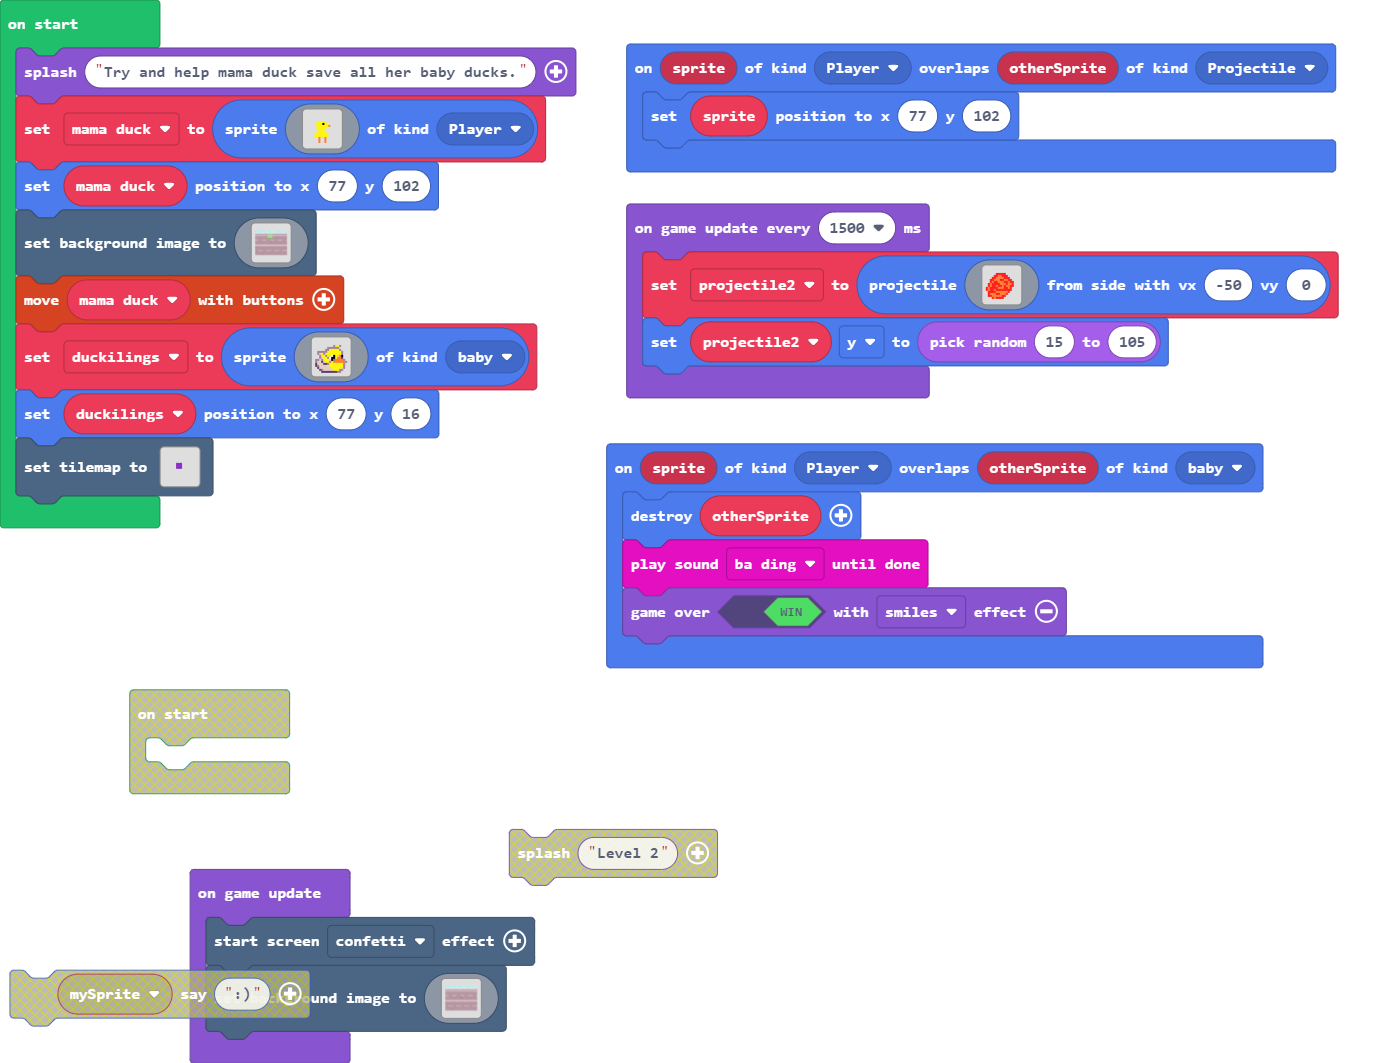
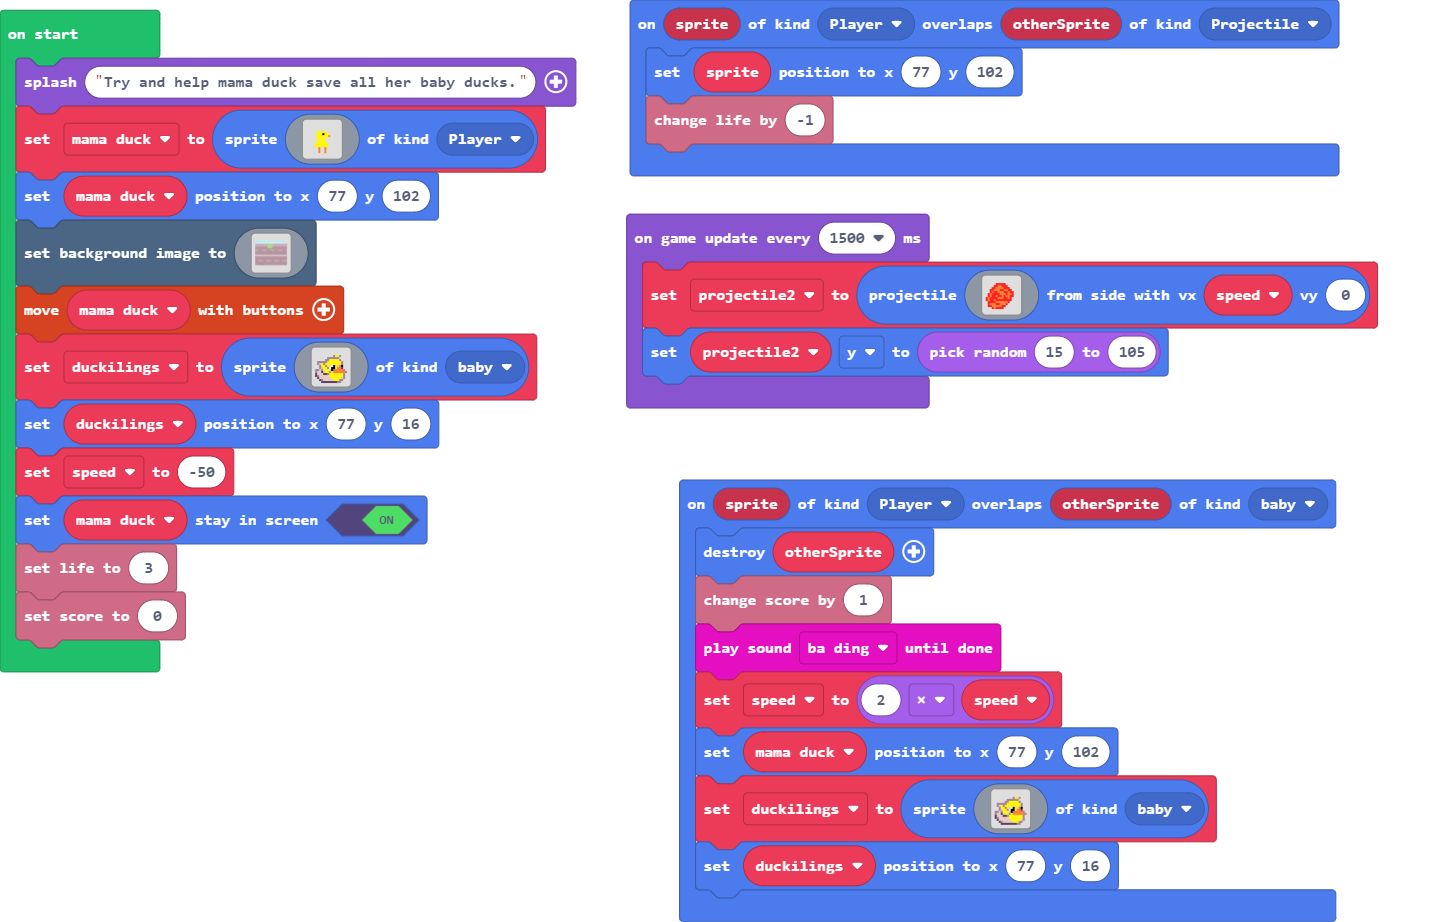
Update pxt.json, main.blocks, main.ts

diff --git a/main.ts b/main.ts
@@ -3,15 +3,40 @@ namespace SpriteKind {
 }
 sprites.onOverlap(SpriteKind.Player, SpriteKind.Projectile, function (sprite, otherSprite) {
     sprite.setPosition(77, 102)
+    info.changeLifeBy(-1)
 })
 sprites.onOverlap(SpriteKind.Player, SpriteKind.baby, function (sprite, otherSprite) {
     otherSprite.destroy()
+    info.changeScoreBy(1)
     music.baDing.playUntilDone()
-    game.over(true, effects.smiles)
+    speed = 2 * speed
+    mama_duck.setPosition(77, 102)
+    duckilings = sprites.create(img`
+        . . . . . . . . . . . . . . . . 
+        . . . . . . . . . . . . . . . . 
+        . . . . . . . . . b 5 5 b . . . 
+        . . . . . . b b b b b b . . . . 
+        . . . . . b b 5 5 5 5 5 b . . . 
+        . b b b b b 5 5 5 5 5 5 5 b . . 
+        . b d 5 b 5 5 5 5 5 5 5 5 b . . 
+        . . b 5 5 b 5 d 1 f 5 d 4 f . . 
+        . . b d 5 5 b 1 f f 5 4 4 c . . 
+        b b d b 5 5 5 d f b 4 4 4 4 b . 
+        b d d c d 5 5 b 5 4 4 4 4 4 4 b 
+        c d d d c c b 5 5 5 5 5 5 5 b . 
+        c b d d d d d 5 5 5 5 5 5 5 b . 
+        . c d d d d d d 5 5 5 5 5 d b . 
+        . . c b d d d d d 5 5 5 b b . . 
+        . . . c c c c c c c c b b . . . 
+        `, SpriteKind.baby)
+    duckilings.setPosition(77, 16)
 })
 let projectile2: Sprite = null
+let speed = 0
+let duckilings: Sprite = null
+let mama_duck: Sprite = null
 game.splash("Try and help mama duck save all her baby ducks.")
-let mama_duck = sprites.create(img`
+mama_duck = sprites.create(img`
     . . . . . . . . . . . . . . . . 
     . . . . . . . . . . . . . . . . 
     . . . . . . . . . . . . . . . . 
@@ -153,7 +178,7 @@ scene.setBackgroundImage(img`
     bbbbbbbbbbbbbbbbbbbbbbbbbbbbbbbbbbbbbbbbbbbbbbbbbbbbbbbbbbbbbbbbbbbbbbbbbbbbbbbbbbbbbbbbbbbbbbbbbbbbbbbbbbbbbbbbbbbbbbbbbbbbbbbbbbbbbbbbbbbbbbbbbbbbbbbbbbbbbbbb
     `)
 controller.moveSprite(mama_duck)
-let duckilings = sprites.create(img`
+duckilings = sprites.create(img`
     . . . . . . . . . . . . . . . . 
     . . . . . . . . . . . . . . . . 
     . . . . . . . . . b 5 5 b . . . 
@@ -172,133 +197,11 @@ let duckilings = sprites.create(img`
     . . . c c c c c c c c b b . . . 
     `, SpriteKind.baby)
 duckilings.setPosition(77, 16)
-tiles.setTilemap(tilemap`level2`)
-game.onUpdate(function () {
-    effects.confetti.startScreenEffect()
-    scene.setBackgroundImage(img`
-        9999999999999999999999999999999999999999999999999999999999999999999999999999999999999999999999999999999999999999999999999999999999999999999999999999999999999999
-        9999999999999999999999999999999999999999999999999999111111111119999999999999999999999999999999999999991111999999999999999999999999999999999999999999111111111111
[12 lines of base64/hex data omitted]
-        cccccccccccccccccccccccccccccccccccccccccccccccccccccccccccccccccccccccccccccccccccccccccccccccccccccccccccccccccccccccccccccccccccccccccccccccccccccccccccccccc
-        1111111111111111111111111111111111111111111111111111111111111111111111111111111111111111111111111111111111111111111111111111111111111111111111111111111111111111
[3 lines of base64/hex data omitted]
-        bbbbbbbbbbbbbbbbbbbbbbbbbbbbbbbbbbbbbbbbbbbbbbbbbbbbbbbbbbbbbbbbbbbbbbbbbbbbbbbbbbbbbbbbbbbbbbbbbbbbbbbbbbbbbbbbbbbbbbbbbbbbbbbbbbbbbbbbbbbbbbbbbbbbbbbbbbbbbbbb
-        bbbbbbbbbbbbbbbbbbbbbbbbbbbbbbbbbbbbbbbbbbbbbbbbbbbbbbbbbbbbbbbbbbbbbbbbbbbbbbbbbbbbbbbbbbbbbbbbbbbbbbbbbbbbbbbbbbbbbbbbbbbbbbbbbbbbbbbbbbbbbbbbbbbbbbbbbbbbbbbb
-        bbbbbbbbbbbbbbbbbbbbbbbbbbbbbbbbbbbbbbbbbbbbbbbbbbbbbbbbbbbbbbbbbbbbbbbbbbbbbbbbbbbbbbbbbbbbbbbbbbbbbbbbbbbbbbbbbbbbbbbbbbbbbbbbbbbbbbbbbbbbbbbbbbbbbbbbbbbbbbbb
-        bbbbbbbbbbbbbbbbbbbbbbbbbbbbbbbbbbbbbbbbbbbbbbbbbbbbbbbbbbbbbbbbbbbbbbbbbbbbbbbbbbbbbbbbbbbbbbbbbbbbbbbbbbbbbbbbbbbbbbbbbbbbbbbbbbbbbbbbbbbbbbbbbbbbbbbbbbbbbbbb
[2 lines of base64/hex data omitted]
-        bbbbbbbbbbbbbbbbbbbbbbbbbbbbbbbbbbbbbbbbbbbbbbbbbbbbbbbbbbbbbbbbbbbbbbbbbbbbbbbbbbbbbbbbbbbbbbbbbbbbbbbbbbbbbbbbbbbbbbbbbbbbbbbbbbbbbbbbbbbbbbbbbbbbbbbbbbbbbbbb
-        bbbbbbbbbbbbbbbbbbbbbbbbbbbbbbbbbbbbbbbbbbbbbbbbbbbbbbbbbbbbbbbbbbbbbbbbbbbbbbbbbbbbbbbbbbbbbbbbbbbbbbbbbbbbbbbbbbbbbbbbbbbbbbbbbbbbbbbbbbbbbbbbbbbbbbbbbbbbbbbb
-        bbbbbbbbbbbbbbbbbbbbbbbbbbbbbbbbbbbbbbbbbbbbbbbbbbbbbbbbbbbbbbbbbbbbbbbbbbbbbbbbbbbbbbbbbbbbbbbbbbbbbbbbbbbbbbccccbbbbbbbbbbbbbbbbbbbbbbbbbbbbbbbbbbbbbbbbbbbbbb
-        bbbbbbbbbbbbbccccbbbbbbbbbbbbbbbbbbbbbbbbbbbbbbbbbbbbbbbbbbbbbbbbbbbbbbbbbbbbbbbbbbbbbbbbbbbbbbbbbbbbbbccccbccbbbbbbbbbbbbbbbbbbbbbbbbbbbbbbbbbbbbbbbbbbbbbbbbbb
-        bbbbbbbbbbbbcbddbcbbbbbbbbbbbbbbbbbbbbbbbbbbbbbbbbbbbbbbbbbbbbbbbbbbbbbbbbbbbbbbbbbbbbbbbbbbbbbbbbbbbbbbbbbccbbbbbbbbbbbbbbbbbbbbbbbbbbbbbbbbbbbbbbbbbbbbbbbbbbb
-        bbbbbbbbbbbbbbbbbbbbbbbbbbbbbbbbbbbbbbbbbbbbbbbbbbbbbbbbbbbbbbbbbbbbbbbbbbbbbbbbbbbbbbbbbbbbbbbbbbbbbbbbbbbbbcbbbbbbbbbbbbbbbbbbbbbbbbbbbbbbbbbbbbbbbbbbbbbbbbbb
-        bbbbbbbbbbbbbbbbbbbbbbbbbbbbbbbbbbbbbbbbbbbbbbbbbbbbbbbbbbbbbbbbbbbbbbbbbbbbbbbbbbbbbbbbbbbbbbbbbbbbbbbbbbbbbbbbbbbbbbbbbbbbbbbbbbbbbbbbbbbbbbbbbbbbbbbbbbbbbbbb
-        bbbbbbbbbbbbbbbbbbbbbbbbbbbbbbbbbbbbbbbbbbbbbbbbbbbbbbbbbbbbbbbbbbbbbbbbbbbbbbbbbbbbbbbbbbbbbbbbbbbbbbbbbbbbbbbbbbbbbbbbbbbbbbbbbbbbbbbbbbbbbbbbbbbbbbbbbbbbbbbb
-        bbbbbbbbbbbbbbbbbbbbbbbbbbbbbbbbbbbbbbbbbbbbbbbbbbbbbbbbbbbbbbbbbbbbbbbbbbbbbbbbbbbbbbbbbbbbbbbbbbbbbbbbbbbbbbbbbbbbbbbbbbbbbbbbbbbbbbbbbbbbbbbbbbbbbbbbbbbbbbbb
-        bbbbbbbbbbbbbbbbbbbbbbbbbbbbbbbbbbbbbbbbbbbbbbbbbbbbbbbbbbbbbbbbbbbbbbbbbbbbbbbbbbbbbbbbbbbbbbbbbbbbbbbbbbbbbbbbbbbbbbbbbbbbbbbbbbbbbbbbbbbbbbbbbbbbbbbbbbbbbbbb
-        bbbbbbbbbbbbbbbbbbbbbbbbbbbbbbbbbbbbbbbbbbbbbbbbbbbbbbbbbbbbbbbbbbbbbbbbbbbbbbbbbbbbbbbbbbbbbbbbbbbbbbbbbbbbbbbbbbbbbbbbbbbbbbbbbbbbbbbbbbbbbbbbbbbbbbbbbbbbbbbb
-        bbbbbbbbbbbbbbbbbbbbbbbbbbbbbbbbbbbbbbbbbbbbbbbbbbbbbbbbbbbbbbbbbbbbbbbbbbbbbbbbbbbbbbbbbbbbbbbbbbbbbbbbbbbbbbbbbbbbbbbbbbbbbbbbbbbbbbbbbbbbbbbbbbbbbbbbbbbbbbbb
-        bbbbbbbbbbbbbbbbbbbbbbbbbbbbbbbbbbbbbbbbbbbbbbbbbbbbbbbbbbbbbbbbbbbbbbbbbbbbbbbbbbbbbbbbbbbbbbbbbbbbbbbbbbbbbbbbbbbbbbbbbbbbbbbbbbbbbbbbbbbbbbbbbbbbbbbbbbbbbbbb
-        bbbbbbbbbbbbbbbbbbbbbbbbbbbbbbbbbbbbbbbbbbbbbbbbbbbbbbbbbbbbbbbbbbbbbbbbbbbbbbbbbbbbbbbbbbbbbbbbbbbbbbbbbbbbbbbbbbbbbbbbbbbbbbbbbbbbbbbbbbbbbbbbbbbbbbbbbbbbbbbb
-        bbbbbbbbbbbbbbbbbbbbbbbbbbbbbbbbbbbbbbbbbbbbbbbbbbbbbbbbbbbbbbbbbbbbbbbbbbbbbbbbbbbbbbbbbbbbbbbbbbbbbbbbbbbbbbbbbbbbbbbbbbbbbbbbbbbbbbbbbbbbbbbbbbbbbbbbbbbbbbbb
-        bbbbbbbbbbbbbbbbbbbbbbbbbbbbbbbbbbbbbbbbbbbbbbbbbbbbbbbbbbbbbbbbbbbbbbbbbbbbbbbbbbbbbbbbbbbbbbbbbbbbbbbbbbbbbbbbbbbbbbbbbbbbbbbbbbbbbbbbbbbbbbbbbbbbbbbbbbbbbbbb
-        bbbbbbbbbbbbbbbbbbbbbbbbbbbbbbbbbbbbbbbbbbbbbbbbbbbbbbbbbbbbbbbbbbbbbbbbbbbbbbbbbbbbbbbbbbbbbbbbbbbbbbbbbbbbbbbbbbbbbbbbbbbbbbbbbbbbbbbbbbbbbbbbbbbbbbbbbbbbbbbb
-        bbbbbbbbbbbbbbbbbbbbbbbbbbbbbbbbbbbbbbbbbbbbbbbbbbbbbbbbbbbbbbbbbbbbbbbbbbbbbbbbbbbbbbbbbbbbbbbbbbbbbbbbbbbbbbbbbbbbbbbbbbbbbbbbbbbbbbbbbbbbbbbbbbbbbbbbbbbbbbbb
-        bbbbbbbbbbbbbbbbbbbbbbbbbbbbbbbbbbbbbbbbbbbbbbbbbbbbbbbbbbbbbbbbbbbbbbbbbbbbbbbbbbbbbbbbbbbbbbbbbbbbbbbbbbbbbbbbbbbbbbbbbbbbbbbbbbbbbbbbbbbbbbbbbbbbbbbbbbbbbbbb
-        bbbbbbbbbbbbbbbbbbbbbbbbbbbbbbbbbbbbbbbbbbbbbbbbbbbbbbbbbbbbbbbbbbbbbbbbbbbbbbbbbbbbbbbbbbbbbbbbbbbbbbbbbbbbbbbbbbbbbbbbbbbbbbbbbbbbbbbbbbbbbbbbbbbbbbbbbbbbbbbb
[2 lines of base64/hex data omitted]
-        bbbbbbbbbbbbbbbbbbbbbbbbbbbbbbbbbbbbbbbbbbbbbbbbbbbbbbbbbbbbbbbbbbbbbbbbbbbbbbbbbbbbbbbbbbbbbbbbbbbbbbbbbbbbbbbbbbbbbbbbbbbbbbbbbbbbbbbbbbbbbbbbbbbbbbbbbbbbbbbb
-        bbbbbbbbbbbbbbbbbbbbbbbbbbbbbbbbbbbbbbbbbbbbbbbbbbbbbbbbbbbbbbbbbbbbbbbbbbbbbbbbbbbbbbbbbbbbbbbbbbbbbbbbbbbbbbbbbbbbbbbbbbbbbbbbbbbbbbbbbbbbbbbbbbbbbbbbbbbbbbbb
-        bbbbbbbbbbbbbbbbbbbbbbbbbbbbbbbbbbbbbbbbbbbbbbbbbbbbbbbbbbbbbbbbbbbbbbbbbbbbbbbbbbbbbbbbbbbbbbbbbbbbbbbbbbbbbbbbbbbbbbbbbbbbbbbbbbbbbbbbbbbbbbbbbbbbbbbbbbbbbbbb
-        bbbbbbbbbbbbbbbbbbbbbbbbbbbbbbbbbbbbbbbbbbbbbbbbbbbbbbbbbbbbbbbbbbbbbbbbbbbbbbbbbbbbbbbbbbbbbbbbbbbbbbbbbbbbbbbbbbbbbbbbbbbbbbbbbbbbbbbbbbbbbbbbbbbbbbbbbbbbbbbb
-        bbbbbbbbbbbbbbbbbbbbbbbbbbbbbbbbbbbbbbbbbbbbbbbbbbbbbbbbbbbbbbbbbbbbbbbbbbbbbbbbbbbbbbbbbbbbbbbbbbbbbbbbbbbbbbbbbbbbbbbbbbbbbbbbbbbbbbbbbbbbbbbbbbbbbbbbbbbbbbbb
-        bbbbbbbbbbbbbbbbbbbbbbbbbbbbbbbbbbbbbbbbbbbbbbbbbbbbbbbbbbbbbbbbbbbbbbbbbbbbbbbbbbbcbbbbbbbbbbbbbbbbbbbbbbbbbbbbbbbbbbbbbbbbbbbbbbbbbbbbbbbbbbbbbbbbbbbbbbbbbbbb
-        bbbbbbbbbbbbbbbbbbbbbbbbbbbbbbbbbbbbbbbbbbbbbbbbbbbbbbbbbbbbbbbbbbbbbbbbbcccbbbccccbbbbbbbbbbbbbbbbbbbbbbbbbbbbbbbbbbbbbbbbbbbbbbbbbbbbbbbbbbbbbbbbbbbbbbbbbbbbb
-        bbbbbbbbbbbbbbbbbbbbbbbbbbbbbbbbbbbbbbbbbbbbbbbbbbbbbbbbbbbbbbbbbbbbbbbbcbbcbbcbcbbbbbbbbbbbbbbbbbbbbbbbbbbbbbbbbbbbbbbbbbbbbbbbbbbbbbbbbbbbbbbbbbbbbbbbbbbbbbbb
-        bbbbbbbbbbbbbbbbbbbbbbbbbbbbbbbbbbbbbbbbbbbbbbbbbbbbbbbbbbbbbbbbbbbbbbbbbbbbccbcbbbbbbbbbbbbbbbbbbbbbbbbbbbbbbbbbbbbbbbbbbbbbbbbbbbbbbbbbbbbbbbbbbbbbbbbbbbbbbbb
-        bbbbbbbbbbbbbbbbbbbbbbbbbbbbbbbbbbbbbbbbbbbbbbbbbbbbbbbbbbbbbbbbbbbbbbbbbbbbbcccccbbbbbbbbbbbbbbbbbbbbbbbbbbbbbbbbbbbbbbbbbbbbbbbbbbbbbbbbbbbbbbbbbbbbbbbbbbbbbb
-        bbbbbbbbbbbbbbbbbbbbbbbbbbbbbbbbbbbbbbbbbbbbbbbbbbbbbbbbbbbbbbbbbbbbbbbbbbbbbbbbbbcbbbbbbbbbbbbbbbbbbbbbbbbbbbbbbbbbbbbbbbbbbbbbbbbbbbbbbbbbbbbbbbbbbbbbbbbbbbbb
-        bbbbbbbbbbbbbbbbbbbbbbbbbbbbbbbbbbbbbbbbbbbbbbbbbbbbbbbbbbbbbbbbbbbbbbbbbbbbbbbbbbbbbbbbbbbbbbbbbbbbbbccccbbbbbbbbbbbbbbbbbbbbbbbbbbbbbbbbbbbbbbbbbbbbbbbbbbbbbb
-        bbbbbbbbbbbbbbbbbbbbbbbbbbbbbbbbbbbbbbbbbbbbbbbbbbbbbbbbbbbbbbbbbbbbbbbbbbbbbbbbbbbbbbbbbbbbbbbbbbbbbcbddbcbbbbbbbbbbbbbbbbbbbbbbbbbbbbbbbbbbbbbbbbbbbbbbbbbbbbb
-        bbbbbbbbbbbbbbbbbbbbbbbbbbbbbbbbbbbbbbbbbbbbbbbbbbbbbbbbbbbbbbbbbbbbbbbbbbbbbbbbbbbbbbbbbbbbbbbbbbbbbbbbbbbbbbbbbbbbbbbbbbbbbbbbbbbbbbbbbbbbbbbbbbbbbbbbbbbbbbbb
-        bbbbbbbbbbbbbbbbbbbbbbbbbbbbbbbbbbbbbbbbbbbbbbbbbbbbbbbbbbbbbbbbbbbbbbbbbbbbbbbbbbbbbbbbbbbbbbbbbbbbbbbbbbbbbbbbbbbbbbbbbbbbbbbbbbbbbbbbbbbbbbbbbbbbbbbbbbbbbbbb
-        bbbbbbbbbbbbbbbbbbbbbbbbbbbbbbbbbbbbbbbbbbbbbbbbbbbbbbbbbbbbbbbbbbbbbbbbbbbbbbbbbbbbbbbbbbbbbbbbbbbbbbbbbbbbbbbbbbbbbbbbbbbbbbbbbbbbbbbbbbbbbbbbbbbbbbbbbbbbbbbb
-        bbbbbbbbbbbbbbbbbbbbbbbbbbbbbbbbbbbbbbbbbbbbbbbbbbbbbbbbbbbbbbbbbbbbbbbbbbbbbbbbbbbbbbbbbbbbbbbbbbbbbbbbbbbbbbbbbbbbbbbbbbbbbbbbbbbbbbbbbbbbbbbbbbbbbbbbbbbbbbbb
-        bbbbbbbbbbbbbbbbbbbbbbbbbbbbbbbbbbbbbbbbbbbbbbbbbbbbbbbbbbbbbbbbbbbbbbbbbbbbbbbbbbbbbbbbbbbbbbbbbbbbbbbbbbbbbbbbbbbbbbbbbbbbbbbbbbbbbbbbbbbbbbbbbbbbbbbbbbbbbbbb
-        bbbbbbbbbbbbbbbbbbbbbbbbbbbbbbbbbbbbbbbbbbbbbbbbbbbbbbbbbbbbbbbbbbbbbbbbbbbbbbbbbbbbbbbbbbbbbbbbbbbbbbbbbbbbbbbbbbbbbbbbbbbbbbbbbbbbbbbbbbbbbbbbbbbbbbbbbbbbbbbb
-        bbbbbbbbbbbbbbbbbbbbbbbbbbbbbbbbbbbbbbbbbbbbbbbbbbbbbbbbbbbbbbbbbbbbbbbbbbbbbbbbbbbbbbbbbbbbbbbbbbbbbbbbbbbbbbbbbbbbbbbbbbbbbbbbbbbbbbbbbbbbbbbbbbbbbbbbbbbbbbbb
-        bbbbbbbbbbbbbbbbbbbbbbbbbbbbbbbbbbbbbbbbbbbbbbbbbbbbbbbbbbbbbbbbbbbbbbbbbbbbbbbbbbbbbbbbbbbbbbbbbbbbbbbbbbbbbbbbbbbbbbbbbbbbbbbbbbbbbbbbbbbbbbbbbbbbbbbbbbbbbbbb
-        bbbbbbbbbbbbbbbbbbbbbbbbbbbbbbbbbbbbbbbbbbbbbbbbbbbbbbbbbbbbbbbbbbbbbbbbbbbbbbbbbbbbbbbbbbbbbbbbbbbbbbbbbbbbbbbbbbbbbbbbbbbbbbbbbbbbbbbbbbbbbbbbbbbbbbbbbbbbbbbb
[2 lines of base64/hex data omitted]
-        bbbbbbbbbbbbbbbbbbbbbbbbbbbbbbbbbbbbbbbbbbbbbbbbbbbbbbbbbbbbbbbbbbbbbbbbbbbbbbbbbbbbbbbbbbbbbbbbbbbbbbbbbbbbbbbbbbbbbbbbbbbbbbbbbbbbbbbbbbbbbbbbbbbbbbbbbbbbbbbb
-        bbbbbbbbbbbbbbbbbbbbbbbbbbbbbbbbbbbbbbbbbbbbbbbbbbbbbbbbbbbbbbbbbbbbbbbbbbbbbbbbbbbbbbbbbbbbbbbbbbbbbbbbbbbbbbbbbbbbbbbbbbbbbbbbbbbbbbbbbbbbbbbbbbbbbbbbbbbbbbbb
[2 lines of base64/hex data omitted]
-        bbbbbbbbbbbbbbbbbbbbbbbbbbbbbbbbbbbbbbbbbbbbbbbbbbbbbbbbbbbbbbbbbbbbbbbbbbbbbbbbbbbbbbbbbbbbbbbbbbbbbbbbbbbbbbbbbbbbbbbbbbbbbbbbbbbbbbbbbbbbbbbbbbbbbbbbbbbbbbbb
-        bbbbbbbbbbbbbbbbbbbbbbbbbbbbbbbbbbbbbbbbbbbbbbbbbbbbbbbbbbbbbbbbbbbbbbbbbbbbbbbbbbbbbbbbbbbbbbbbbbbbbbbbbbbbbbbbbbbbbbbbbbbbbbbbbbbbbbbbbbbbbbbbbbbbbbbbbbbbbbbb
-        bbbbbbbbbbbbbbbbbbbbbbbbbbbbbbbbbbbbbbbbbbbbbbbbbbbbbbbbbbbbbbbbbbbbbbbbbbbbbbbbbbbbbbbbbbbbbbbbbbbbbbbbbbbbbbbbbbbbbbbbbbbbbbbbbbbbbbbbbbbbbbbbbbbbbbbbbbbbbbbb
-        bbbbbbbbbbbbbbbbbbbbbbbbbbbbbbbbbbbbbbbbbbbbbbbbbbbbbbbbbbbbbbbbbbbbbbbbbbbbbbbbbbbbbbbbbbbbbbbbbbbbbbbbbbbbbbbbbbbbbbbbbbbbbbbbbbbbbbbbbbbbbbbbbbbbbbbbbbbbbbbb
-        bbbcccbbbbbbbbbbbbbbbbbbbbbbbbbbbbbbbbbbbbbbbbbbbbbbbbbbbbbbbbbbbbbbbbbbbbbbbbbbbbbbbbbbbbbbbbbbbbbbbbbbbbbbbbbbbbbbbbbbbbbbbbbbbbbbbbbbbbbbbbbbbbbbbbbbbbbbbbbb
-        bbccbbcbbbbbbbbbbbbbbbbbbbbbbbbbbbbbbbbbbbbbbbbbbbbbbbbbbbbbbbbbbbbbbbbbbbbbbbbbbbbbbbbbbbbbbbbbbbbbbbbbbbbbbbbbbbbbbbbbbbbbbbbbbbbbbbbbbbbbbbbbbbbbbbbbbbbbbbbb
-        cccbbbbbbbbbbbbbbbbbbbbbbbbbbbbbbbbbbbbbbbbbbbbbbbbbbbbbbbbbbbbbbbbbbbbbbbbbbbbbbbbbbbbbbbbbbbbbbbbbbbbbbbbbbbbbbbbbbbbbbbbbbbbbbbbbbbbbbbbbbbbbbbbbbbbbbbbbbbbc
-        bccbbbbbbbbbbbbbbbbbbbbbbbbbbbbbbbbbbbbbbbbbbbbbbbbbbbbbbbbbbbbbbbbbbbbbbbbbbbbbbbbbbbbbbbbbbbbbbbbbbbbbbbbbbbbbbbbbbbbbbbbbbbbbbbbbbbbbbbbbbbbbbbbbbbbbbbbbcccc
-        ccccbbbbbbbbbbbbbbbbbbbbbbbbbbbbbbbbbbbbbbbbbbbbbbbbbbbbbbbbbbbbbbbbbbbbbbbbbbbbbbbbbbbbbbbbbbbbbbbbbbbbbbbbbbbbbbbbbbbbbbbbbbbbbbbbbbbbbbbbbbbbbbbbbbbbbbccbbbb
-        bbbbccbbbbbbbbbbbbbbbbbbbbbbbbbbbbbbbbbbbbbbbbbbbbbbbbbbbbbbbbbbbbbbbbbbbbbbbbbbbbbbbbbbbbbbbbbbbbbbbbbbbbbbbbbbbbbbbbbbbbbbbbbbbbbbbbbbbbbbbbbbbbbbbbbbbbbbbbbb
-        bbbbbbbbbbbbbbbbbbbbbbbbbbbbbbbbbbbbbbbbbbbbbbbbbbbbbbbbbbbbbbbbbbbbbbbbbbbbbbbbbbbbbbbbbbbbbbbbbbbbbbbbbbbbbbbbbbbbbbbbbbbbbbbbbbbbbbbbbbbbbbbbbbbbbbbbbbbbbbbb
-        bbbbbbbbbbbbbbbbbbbbbbbbbbbbbbbbbbbbbbbbbbbbbbbbbbbbbbbbbbbbbbbbbbbbbbbbbbbbbbbbbbbbbbbbbbbbbbbbbbbbbbbbbbbbbbbbbbbbbbbbbbbbbbbbbbbbbbbbbbbbbbbbbbbbbbbbbbbbbbbb
-        bbbbbbbbbbbbbbbbbbbbbbbbbbbbbbbbbbbbbbbbbbbbbbbbbbbbbbbbbbbbbbbbbbbbbbbbbbbbbbbbbbbbbbbbbbbbbbbbbbbbbbbbbbbbbbbbbbbbbbbbbbbbbbbbbbbbbbbbbbbbbbbbbbbbbbbbbbbbbbbb
-        bbbbbbbbbbbbbbbbbbbbbbbbbbbbbbbbbbbbbbbbbbbbbbbbbbbbbbbbbbbbbbbbbbbbbbbbbbbbbbbbbbbbbbbbbbbbbbbbbbbbbbbbbbbbbbbbbbbbbbbbbbbbbbbbbbbbbbbbbbbbbbbbbbbbbbbbbbbbbbbb
-        bbbbbbbbbbbbbbbbbbbbbbbbbbbbbbbbbbbbbbbbbbbbbbbbbbbbbbbbbbbbbbbbbbbbbbbbbbbbbbbbbbbbbbbbbbbbbbbbbbbbbbbbbbbbbbbbbbbbbbbbbbbbbbbbbbbbbbbbbbbbbbbbbbbbbbbbbbbbbbbb
-        bbbbbbbbbbbbbbbbbbbbbbbbbbbbbbbbbbbbbbbbbbbbbbbbbbbbbbbbbbbbbbbbbbbbbbbbbbbbbbbbbbbbbbbbbbbbbbbbbbbbbbbbbbbbbbbbbbbbbbbbbbbbbbbbbbbbbbbbbbbbbbbbbbbbbbbbbbbbbbbb
-        bbbbbbbbbbbbbbbbbbbbbbbbbbbbbbbbbbbbbbbbccccbbbbbbbbbbbbbbbbbbbbbbbbbbbbbbbbbbbbbbbbbbbbbbbbbbbbbbbbbbbbbbbbbbbbbbbbbbbbbbbbbbbbbbbbbbbbbbbbbbbbbbbbbbbbbbbbbbbb
-        bbbbbbbbbbbbbbbbbbbbbbbbbbbbbbbbbbbbbbbcbddbcbbbbbbbbbbbbbbbbbbbbbbbbbbbbbbbbbbbbbbbbbbbbbbbbbbbbbbbbbbbbbbbbbbbbbbbbbbbbbbbbbbbbbbbbbbbbbbbbbbbbbbbbbbbbbbbbbbb
-        bbbbbbbbbbbbbbbbbbbbbbbbbbbbbbbbbbbbbbbbbbbbbbbbbbbbbbbbbbbbbbbbbbbbbbbbbbbbbbbbbbbbbbbbbbbbbbbbbbbbbbbbbbbbbbbbbbbbbbbbbbbbbbbbbbbbbbbbbbbbbbbbbbbbbbbbbbbbbbbb
-        bbbbbbbbbbbbbbbbbbbbbbbbbbbbbbbbbbbbbbbbbbbbbbbbbbbbbbbbbbbbbbbbbbbbbbbbbbbbbbbbbbbbbbbbbbbbbbbbbbbbbbbbbbbbbbbbbbbbbbbbbbbbbbbbbbbbbbbbbbbbbbbbbbbbbbbbbbbbbbbb
-        bbbbbbbbbbbbbbbbbbbbbbbbbbbbbbbbbbbbbbbbbbbbbbbbbbbbbbbbbbbbbbbbbbbbbbbbbbbbbbbbbbbbbbbbbbbbbbbbbbbbbbbbbbbbbbbbbbbbbbbbbbbbbbbbbbbbbbbbbbbbbbbbbbbbbbbbbbbbbbbb
-        bbbbbbbbbbbbbbbbbbbbbbbbbbbbbbbbbbbbbbbbbbbbbbbbbbbbbbbbbbbbbbbbbbbbbbbbbbbbbbbbbbbbbbbbbbbbbbbbbbbbbbbbbbbbbbbbbbbbbbbbbbbbbbbbbbbbbbbbbbbbbbbbbbbbbbbbbbbbbbbb
[2 lines of base64/hex data omitted]
-        bbbbbbbbbbbbbbbbbbbbbbbbbbbbbbbbbbbbbbbbbbbbbbbbbbbbbbbbbbbbbbbbbbbbbbbbbbbbbbbbbbbbbbbbbbbbbbbbbbbbbbbbbbbbbbbbbbbbbbbbbbbbbbbbbbbbbbbbbbbbbbbbbbbbbbbbbbbbbbbb
-        bbbbbbbbbbbbbbbbbbbbbbbbbbbbbbbbbbbbbbbbbbbbbbbbbbbbbbbbbbbbbbbbbbbbbbbbbbbbbbbbbbbbbbbbbbbbbbbbbbbbbbbbbbbbbbbbbbbbbbbbbbbbbbbbbbbbbbbbbbbbbbbbbbbbbbbbbbbbbbbb
-        bbbbbbbbbbbbbbbbbbbbbbbbbbbbbbbbbbbbbbbbbbbbbbbbbbbbbbbbbbbbbbbbbbbbbbbbbbbbbbbbbbbbbbbbbbbbbbbbbbbbbbbbbbbbbbbbbbbbbbbbbbbbbbbbbbbbbbbbbbbbbbbbbbbbbbbbbbbbbbbb
-        bbbbbbbbbbbbbbbbbbbbbbbbbbbbbbbbbbbbbbbbbbbbbbbbbbbbbbbbbbbbbbbbbbbbbbbbbbbbbbbbbbbbbbbbbbbbbbbbbbbbbbbbbbbbbbbbbbbbbbbbbbbbbbbbbbbbbbbbbbbbbbbbbbbbbbbbbbbbbbbb
-        bbbbbbbbbbbbbbbbbbbbbbbbbbbbbbbbbbbbbbbbbbbbbbbbbbbbbbbbbbbbbbbbbbbbbbbbbbbbbbbbbbbbbbbbbbbbbbbbbbbbbbbbbbbbbbbbbbbbbbbbbbbbbbbbbbbbbbbbbbbbbbbbbbbbbbbbbbbbbbbb
-        bbbbbbbbbbbbbbbbbbbbbbbbbbbbbbbbbbbbbbbbbbbbbbbbbbbbbbbbbbbbbbbbbbbbbbbbbbbbbbbbbbbbbbbbbbbbbbbbbbbbbbbbbbbbbbbbbbbbbbbbbbbbbbbbbbbbbbbbbbbbbbbbbbbbbbbbbbbbbbbb
-        bbbbbbbbbbbbbbbbbbbbbbbbbbbbbbbbbbbbbbbbbbbbbbbbbbbbbbbbbbbbbbbbbbbbbbbbbbbbbbbbbbbbbbbbbbbbbbbbbbbbbbbbbbbbbbbbbbbbbbbbbbbbbbbbbbbbbbbbbbbbbbbbbbbbbbbbbbbbbbbb
-        bbbbbbbbbbbbbbbbbbbbbbbbbbbbbbbbbbbbbbbbbbbbbbbbbbbbbbbbbbbbbbbbbbbbbbbbbbbbbbbbbbbbbbbbbbbbbbbbbbbbbbbbbbbbbbbbbbbbbbbbbbbbbbbbbbbbbbbbbbbbbbbbbbbbbbbbbbbbbbbb
-        bbbbbbbbbbbbbbbbbbbbbbbbbbbbbbbbbbbbbbbbbbbbbbbbbbbbbbbbbbbbbbbbbbbbbbbbbbbbbbbbbbbbbbbbbbbbbbbbbbbbbbbbbbbbbbbbbbbbbbbbbbbbbbbbbbbbbbbbbbbbbbbbbbbbbbbbbbbbbbbb
-        bbbbbbbbbbbbbbbbbbbbbbbbbbbbbbbbbbbbbbbbbbbbbbbbbbbbbbbbbbbbbbbbbbbbbbbbbbbbbbbbbbbbbbbbbbbbbbbbbbbbbbbbbbbbbbbbbbbbbbbbbbbbbbbbbbbbbbbbbbbbbbbbbbbbbbbbbbbbbbbb
-        ccbbbbbbbbbbbbbbbbbbbbbbbbbbbbbbbbbbbbbbbbbbbbbbbbbbbbbbbbbbbbbbbbbbbbbbbbbbbbbbbbbbbbbbbbbbbbbbbbbbbbbbbbbbbbbbbbbbbbbbbbbbbbbbbbbbbbbbbbbbbbbbbbbbbbbbbbbbbbcc
-        dbcbbbbbbbbbbbbbbbbbbbbbbbbbbbbbbbbbbbbbbbbbbbbbbbbbbbbbbbbbbbbbbbbbbbbbbbbbbbbbbbbbbbbbbbbbbbbbbbbbbbbbbbbbbbbbbbbbbbbbbbbbbbbbbbbbbbbbbbbbbbbbbbbbbbbbbbbbbcbd
-        bbbbbbbbbbbbbbbbbbbbbbbbbbbbbbbbbbbbbbbbbbbbbbbbbbbbbbbbbbbbbbbbbbbbbbbbbbbbbbbbbbbbbbbbbbbbbbbbbbbbbbbbbbbbbbbbbbbbbbbbbbbbbbbbbbbbbbbbbbbbbbbbbbbbbbbbbbbbbbbb
-        bbbbbbbbbbbbbbbbbbbbbbbbbbbbbbbbbbbbbbbbbbbbbbbbbbbbbbbbbbbbbbbbbbbbbbbbbbbbbbbbbbbbbbbbbbbbbbbbbbbbbbbbbbbbbbbbbbbbbbbbbbbbbbbbbbbbbbbbbbbbbbbbbbbbbbbbbbbbbbbb
-        bbbbbbbbbbbbbbbbbbbbbbbbbbbbbbbbbbbbbbbbbbbbbbbbbbbbbbbbbbbbbbbbbbbbbbbbbbbbbbbbbbbbbbbbbbbbbbbbbbbbbbbbbbbbbbbbbbbbbbbbbbbbbbbbbbbbbbbbbbbbbbbbbbbbbbbbbbbbbbbb
-        bbbbbbbbbbbbbbbbbbbbbbbbbbbbbccbbbbbbbbcbbbbbbbbbbbbbbbbbbbbbbbbbbbbbbbbbbbbbbbbbbbbbbbbbbbbbbbbbbbbbbbbbbbbbbbbbbbbbbbbbbbbbbbbbbbbbbbbbbbbbbbbbbbbbbbbbbbbbbbb
-        bbbbbbbbbbbbbbbbbbbbbbbbbbbbbbbbcccccccbbbbbbbbbbbbbbbbbbbbbbbbbbbbbbbbbbbbbbbbbbbbbbbbbbbbbbbbbbbbbbbbbbbbbbbbbbbbbbbbbbbbbbbbbbbbbbbbbbbbbbbbbbbbbbbbbbbbbbbbb
-        bbbbbbbbbbbbbbbbbbbbbbbbbbbbbbbbbbcbcbbbbbbbbbbbbbbbbbbbbbbbbbbbbbbbbbbbbbbbbbbbbbbbbbbbbbbbbbbbbbbbbbbbbbbbbbbbbbbbbbbbbbbbbbbbbbbbbbbbbbbbbbbbbbbbbbbbbbbbbbbb
-        bbbbbbbbbbbbbbbbbbbbbbbbbbbbbbbbbbbcccbbbbbbbbbbbbbbbbbbbbbbbbbbbbbbbbbbbbbbbbbbbbbbbbbbbbbbbbbbbbbbbbbbbbbbbbbbbbbbbbbbbbbbbbbbbbbbbbbbbbbbbbbbbbbbbbbbbbbbbbbb
-        bbbbbbbbbbbbbbbbbbbbbbbbbbbbbbbbbbbbbbccbbbbbbbbbbbbbbbbbbbbbbbbbbbbbbbbbbbbbbbbbbbbbbbbbbbbbbbbbbbbbbbbbbbbbbbbbbbbbbbbbbbbbbbbbbbbbbbbbbbbbbbbbbbbbbbbbbbbbbbb
-        bbbbbbbbbbbbbbbbbbbbbbbbbbbbbbbbbbbbbbbbbbbbbbbbbbbbbbbbbbbbbbbbbbbbbbbbbbbbbbbbbbbbbbbbbbbbbbbbbbbbbbbbbbbbbbbbbbbbbbbbbbbbbbbbbbbbbbbbbbbbbbbbbbbbbbbbbbbbbbbb
-        `)
-})
+speed = -50
+mama_duck.setStayInScreen(true)
+info.setLife(3)
+info.setScore(0)
 game.onUpdateInterval(1500, function () {
-    projectile2 = sprites.createProjectileFromSide(assets.image`fireball`, -50, 0)
+    projectile2 = sprites.createProjectileFromSide(assets.image`fireball`, speed, 0)
     projectile2.y = randint(15, 105)
 })
